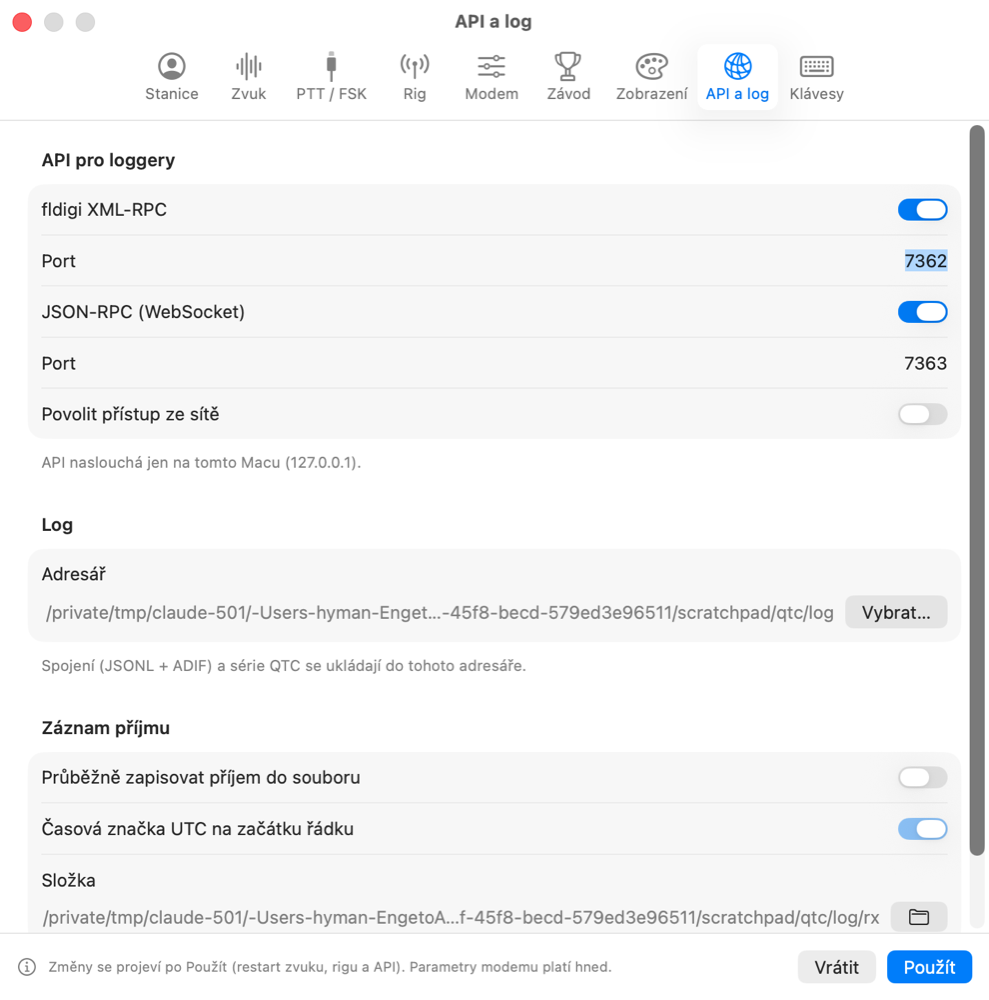
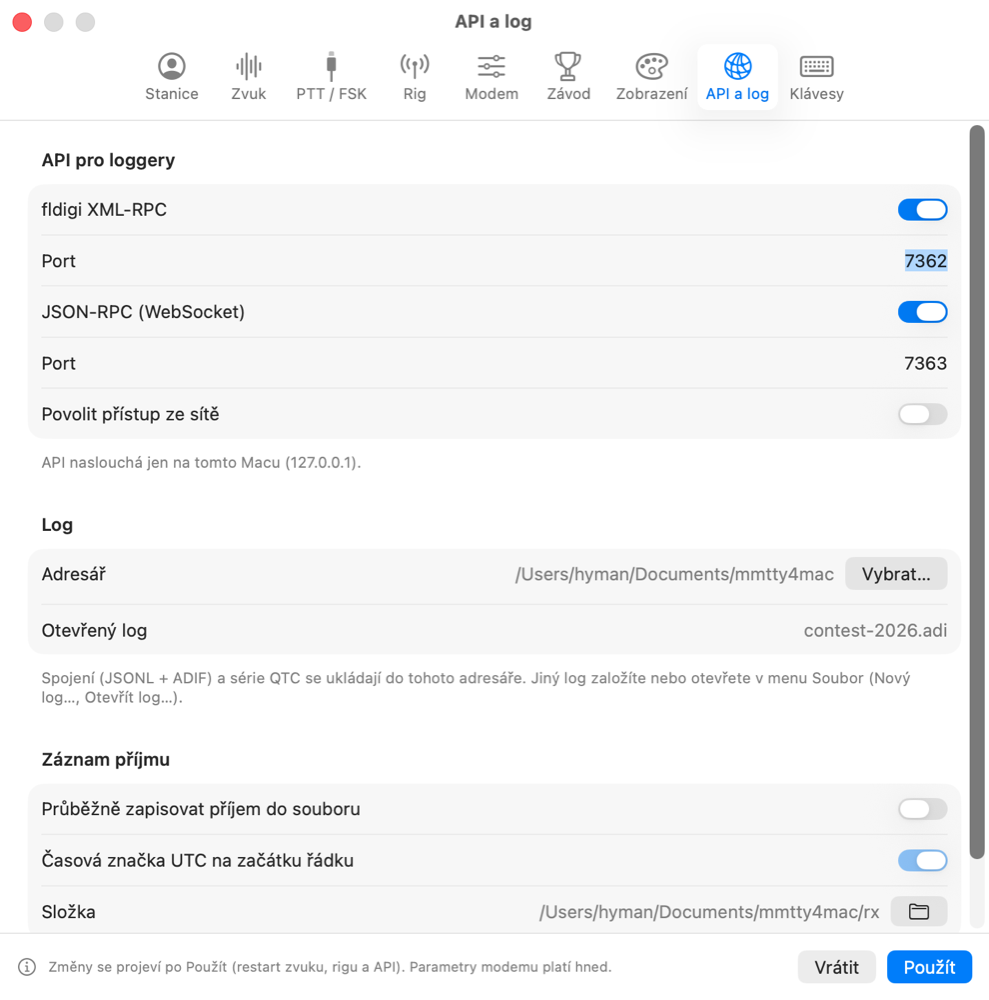
docs(html): Log window screenshots, API/log tab with management, Help (⌘?)

Changed region(s): [[0.0303, 0.589, 0.8797, 0.93], [0.455, 0.558, 0.9707, 0.682], [0.91, 0.744, 0.9707, 0.93]]

diff --git a/docs/html/cs/index.html b/docs/html/cs/index.html
@@ -53,6 +53,7 @@
   <li>Otevřete <code>mmtty4mac-0.10.0.dmg</code> a přetáhněte aplikaci do složky <b>Aplikace</b>.</li>
   <li>Při prvním spuštění se macOS zeptá na přístup k <b>mikrofonu</b> – potvrďte ho, jinak příjem nefunguje. Změnit to jde v Nastavení systému → Soukromí a zabezpečení → Mikrofon.</li>
   <li>Aplikace je podepsaná a notarizovaná Applem, spustí se bez varování.</li>
+  <li>Tuto příručku otevřete kdykoli z aplikace: menu <b>Nápověda → Příručka mmtty4mac</b> (<kbd>⌘</kbd><kbd>?</kbd>).</li>
 </ol>
 <p>Volitelně: pro rádia, která vestavěný CAT nezná, nainstalujte hamlib příkazem <code>brew install hamlib</code>.</p>
 </section>
@@ -129,7 +130,7 @@
 <h2>6. QSO a log</h2>
 <p>QSO okno ukazuje jen pole, která aktuální režim potřebuje. Pod značkou je země DXCC (z cty.dat), CQ a ITU zóna, místní čas protistanice a seznam předchozích spojení. <b>Log</b> (<kbd>⌘</kbd><kbd>L</kbd>) zapíše spojení, <b>Clear</b> okno vyprázdní.</p>
 <figure><a href="../img/cs-log.png"><img src="../img/cs-log.png" alt="Okno Log" loading="lazy"></a>
-  <figcaption>Okno Log (<kbd>⇧</kbd><kbd>⌘</kbd><kbd>L</kbd>): hledání, oprava dvojklikem, mazání, import ADIF a export Cabrillo. Záložka QTC ukazuje série QTC ze závodu WAE.</figcaption></figure>
+  <figcaption>Okno Log (<kbd>⇧</kbd><kbd>⌘</kbd><kbd>L</kbd>): hledání, oprava dvojklikem, mazání. Dole je cesta k otevřenému logu, menu <b>Log</b> (nový, otevřít, uložit jako, export ADIF), import ADIF a export Cabrillo. Záložka QTC ukazuje série QTC ze závodu WAE.</figcaption></figure>
 <p>Log se ukládá do <code>~/Documents/mmtty4mac</code> jako JSONL a zároveň jako ADIF (<code>mmtty4mac.adi</code>), který přečte každý logger. Starý log z MMTTY v MMTTY exportujte do ADIF a v mmtty4mac importujte – duplicity se přeskočí.</p>
 <h3>Správa logu</h3>
 <p>Každý log je samostatný soubor – třeba jeden pro běžný provoz a jeden pro každý závod. V menu <b>Soubor</b>:</p>
@@ -174,7 +175,7 @@
 <h2>9. API pro loggery</h2>
 <p>mmtty4mac se loggerům představuje jako <b>fldigi</b> (XML-RPC na portu 7362), takže ho ovládají například RUMlogNG nebo MacLoggerDX – v loggeru zvolte „fldigi“. Druhé API je JSON-RPC přes WebSocket (<code>ws://127.0.0.1:7363/v1</code>) s událostmi o přijatém textu, stavu a zalogovaných spojeních; Java klient je v <code>clients/java</code>.</p>
 <figure class="half"><a href="../img/cs-settings-7.png"><img src="../img/cs-settings-7.png" alt="Nastavení – API a log" loading="lazy"></a>
-  <figcaption>API a log: porty API, adresář logu a průběžný záznam příjmu.</figcaption></figure>
+  <figcaption>API a log: porty API, adresář a název otevřeného logu a průběžný záznam příjmu.</figcaption></figure>
 <div class="note warn">API nemá autentizaci a umí zapnout vysílač. Ve výchozím stavu naslouchá jen na tomto Macu; přístup ze sítě zapínejte jen v důvěryhodné síti.</div>
 </section>
 

diff --git a/docs/html/en/index.html b/docs/html/en/index.html
@@ -53,6 +53,7 @@
   <li>Open <code>mmtty4mac-0.10.0.dmg</code> and drag the app into <b>Applications</b>.</li>
   <li>On first launch macOS asks for <b>microphone</b> access – allow it, otherwise receiving does not work. You can change it in System Settings → Privacy &amp; Security → Microphone.</li>
   <li>The app is signed and notarized by Apple and opens without warnings.</li>
+  <li>Open this manual any time from the app: <b>Help → mmtty4mac Manual</b> (<kbd>⌘</kbd><kbd>?</kbd>).</li>
 </ol>
 <p>Optional: for radios the built-in CAT does not know, install hamlib with <code>brew install hamlib</code>.</p>
 </section>
@@ -129,7 +130,7 @@
 <h2>6. QSO and log</h2>
 <p>The QSO window shows only the fields the current mode needs. Under the call you see the DXCC country (from cty.dat), CQ and ITU zones, the other station's local time and previous QSOs. <b>Log</b> (<kbd>⌘</kbd><kbd>L</kbd>) saves the QSO, <b>Clear</b> empties the window.</p>
 <figure><a href="../img/en-log.png"><img src="../img/en-log.png" alt="Log window" loading="lazy"></a>
-  <figcaption>Log window (<kbd>⇧</kbd><kbd>⌘</kbd><kbd>L</kbd>): search, edit by double-click, delete, ADIF import and Cabrillo export. The QTC tab lists QTC series from the WAE contest.</figcaption></figure>
+  <figcaption>Log window (<kbd>⇧</kbd><kbd>⌘</kbd><kbd>L</kbd>): search, edit by double-click, delete. At the bottom the path of the open log, the <b>Log</b> menu (new, open, save as, export ADIF), ADIF import and Cabrillo export. The QTC tab lists QTC series from the WAE contest.</figcaption></figure>
 <p>The log is stored in <code>~/Documents/mmtty4mac</code> as JSONL and also as ADIF (<code>mmtty4mac.adi</code>) that any logger can read. For an old MMTTY log, export it to ADIF in MMTTY and import it in mmtty4mac – duplicates are skipped.</p>
 <h3>Log management</h3>
 <p>Each log is a separate file – for example one for everyday operating and one per contest. In the <b>File</b> menu:</p>
@@ -174,7 +175,7 @@
 <h2>9. API for loggers</h2>
 <p>To loggers mmtty4mac looks like <b>fldigi</b> (XML-RPC on port 7362), so for example RUMlogNG or MacLoggerDX can control it – choose “fldigi” in the logger. The second API is JSON-RPC over WebSocket (<code>ws://127.0.0.1:7363/v1</code>) with events for received text, state and logged QSOs; a Java client is in <code>clients/java</code>.</p>
 <figure class="half"><a href="../img/en-settings-7.png"><img src="../img/en-settings-7.png" alt="Settings – API and log" loading="lazy"></a>
-  <figcaption>API and log: API ports, the log folder and the continuous RX text log.</figcaption></figure>
+  <figcaption>API and log: API ports, the folder and name of the open log and the continuous RX text log.</figcaption></figure>
 <div class="note warn">The API has no authentication and can key the transmitter. By default it listens on this Mac only; enable network access only on a trusted network.</div>
 </section>
 
